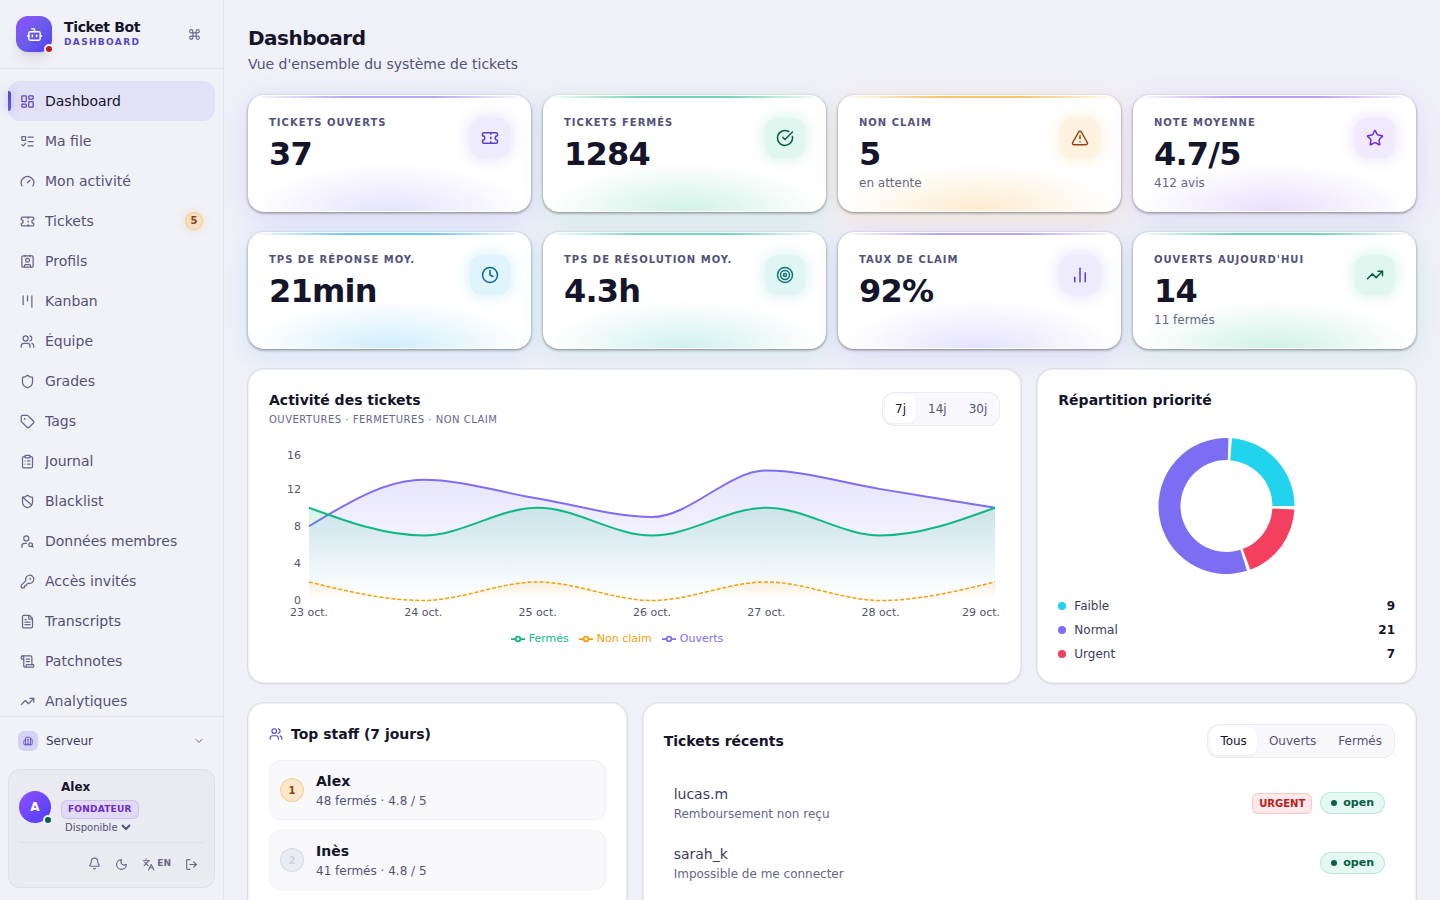
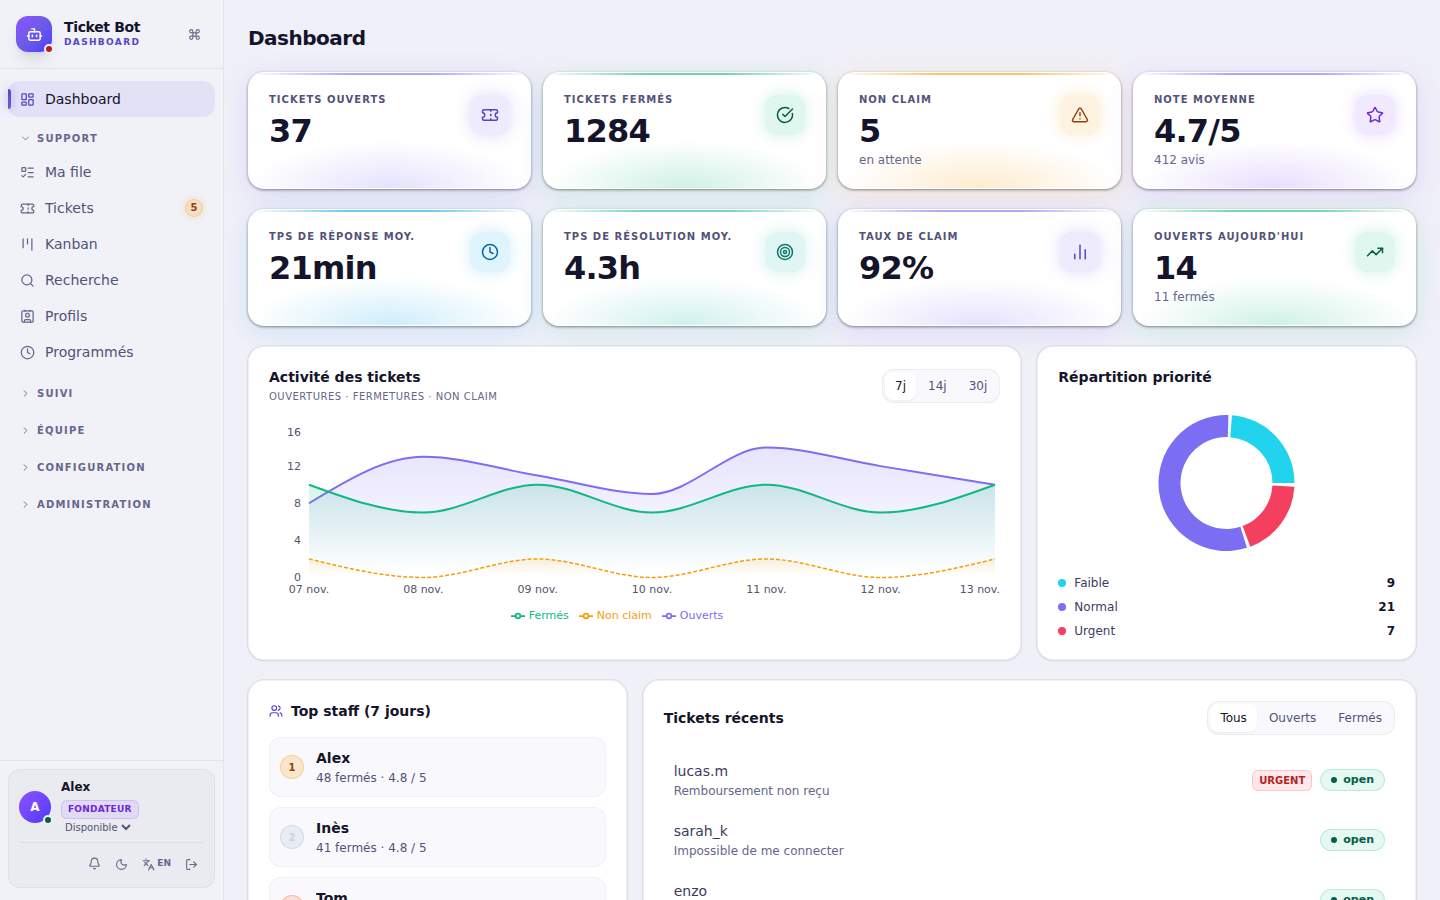
docs: captures de l'interface Pro et captures du README régénérées

diff --git a/README.md b/README.md
@@ -87,6 +87,24 @@ Les membres écrivent au bot **en message privé** ; chaque demande devient un *
   </tr>
 </table>
 
+<h3 align="center">Interface « Pro »</h3>
+<p align="center"><sub>Au choix dans le profil : la même application, en palette neutre, angles droits, sans effets. Sombre ou clair.</sub></p>
+<p align="center">
+  <img src="docs/images/pro-dashboard.png" alt="Interface Pro : tableau de bord en mode sombre" width="100%">
+</p>
+<table>
+  <tr>
+    <td width="50%" valign="top">
+      <img src="docs/images/pro-ticket.png" alt="Interface Pro : fiche ticket">
+      <p align="center"><b>Fiche ticket</b></p>
+    </td>
+    <td width="50%" valign="top">
+      <img src="docs/images/pro-tickets-light.png" alt="Interface Pro : liste des tickets en mode clair">
+      <p align="center"><b>Liste des tickets, mode clair</b></p>
+    </td>
+  </tr>
+</table>
+
 <table>
   <tr>
     <td width="230" valign="top"><img src="docs/images/ticket-mobile.png" alt="Fiche ticket sur téléphone" width="220"></td>
